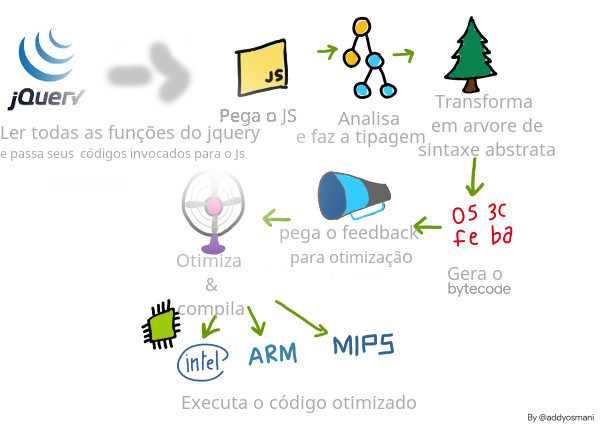
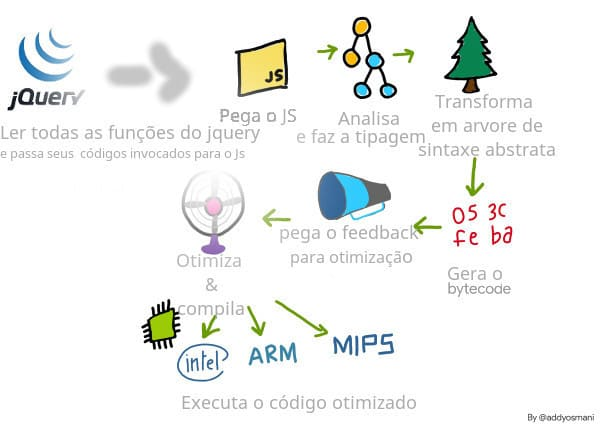
Atualização, seo e compressão de imagens (diminuir o peso pq ta foda kk)

diff --git a/index.html b/index.html
@@ -8,12 +8,12 @@
       <link rel="stylesheet" href="https://jul10l1r4.github.io/HTTP_-_Resposta/style/texto.css"/>
       <link rel="stylesheet" href="css/layout.css"/>
       <meta name="author" content="Julio Lira"/>
-			<meta name="theme-color" content="#AA9780">
+			<meta name="theme-color" content="#787A84">
       <meta name="robots" content="index, follow">
+			<meta name="description" content="Olá, meu nome é Julio Lira e sou um desenvolvedor que já a um bom tempo trabalho com produção de sites 💻 ⌨ 🖥, blogues APIs entre outras, sou um entusiasta pelo paradigma funcional amo viajar e fotografar, escrever, pensar na vida e tal, sou desenvolvedor e pensante nas horas vagas, Julio Lira"/>
+			<meta property="article:published_time" content="2018-03-16T10:00:00+00:00" />
       <meta property="og:site_name" content="https://jul10l1r4.github.io/" />
-      <meta property="og:url" content="https://jul10l1r4.github.io/" />
-      <meta name="description" content="Olá, meu nome é Julio Lira e sou um desenvolvedor que já a um bom tempo trabalho com produção de sites 💻 ⌨ 🖥, blogues APIs entre outras, sou um entusiasta pelo paradigma funcional amo viajar e fotografar, escrever, pensar na vida e tal, sou desenvolvedor e pensante nas horas vagas, Julio Lira"/>
-      <meta name="keywords" content="segurança, security,sec, osec,roadsec,hack,hacking,pentest,web, invasion,RE,Julio Lira,http, https, erro, error, mensagem, criar, 404, html, php, c, css, javascript, java, go, python, haskell, git, not a bug, jul10l1r4, Julio Lira, br, zueira, memes, meme, mene, risos, rs, huehuehue, kkk, kkkkkkj, perdi a criatividade kkdkd, http, http meme resposta, api meme, api resposta, rootthings, root things, rootings"/>
+      <meta property="og:url" content="https://jul10l1r4.github.io/" />   
       <meta property="og:title" content="Oi, meu nome Julio, sou desenvolvedor web ah 7 anos 📱💻 ⌨ 🖥">
       <meta property="og:image" content="https://avatars1.githubusercontent.com/u/32502168?s=400&u=420480b91dffa1215bddbb9bab5d99df688c3c68&v=4"/>
       <meta property="og:description" content="Conheça meus projetos e minha forma de criar sites e blogues, costumo trabalhar sem o uso de frameworks ou bibliotecas, antes eu utilizava bastante, até que dei uma boa estudada e notei que eu não estva fazendo uma prática certa"/>

diff --git a/artigo/background-em-texto/index.html b/artigo/background-em-texto/index.html
@@ -9,6 +9,7 @@
       <link rel="stylesheet" href="../../css/layout.css"/>
       <meta name="author" content="Julio Lira"/>
       <meta name="robots" content="index, follow">
+			<meta property="article:published_time" content="2018-03-16T10:00:00+00:00" />
       <meta property="og:site_name" content="https://jul10l1r4.github.io/" />
       <meta property="og:url" content="https://jul10l1r4.github.io/artigos/background-em-texto/" />
       <meta name="description" content="Olá, sou um desenvolvedor que já a um bom tempo trabalho com produção de sites 💻 ⌨ 🖥, blogues APIs entre outras, sou um entusiasta pelo paradigma funcional amo viajar e fotografar, escrever, pensar na vida e tal, sou desenvolvedor e pensante nas horas vagas meu nome nas redes sociais é jul10l1r4"/>

diff --git a/POP-image/index.html b/POP-image/index.html
@@ -11,6 +11,7 @@
       <meta name="author" content="Julio Lira"/>
 			<meta name="theme-color" content="#666">
       <meta name="robots" content="index, follow">
+			<meta property="article:published_time" content="2018-03-16T10:00:00+00:00" />
       <meta property="og:site_name" content="POP-IMAGE" />
       <meta property="og:url" content="https://jul10l1r4.github.io/POP-image" />
       <meta name="description" content="O efeito de deslizamento é algo almejado por muitos e também bastante usado, trás aquela sensação de qualidade e de minimalismo, porém, nem sempre passa de sensação, muitas vezes os códigos são eternamente monstrons, são bibliotecas de mais 3000 linhas de códigos que importam muitas coisas, leia um artigo sobre isso em"/>

diff --git a/artigo/Seja_performatico_-_efeito_scroll_com_6_linhas_sem_jquery/index.html b/artigo/Seja_performatico_-_efeito_scroll_com_6_linhas_sem_jquery/index.html
@@ -10,6 +10,7 @@
       <link rel="stylesheet" href="../../css/layout.css"/>
       <meta name="author" content="Julio Lira"/>
       <meta name="robots" content="index, follow">
+			<meta property="article:published_time" content="2018-03-16T10:00:00+00:00" />
       <meta property="og:site_name" content="https://jul10l1r4.github.io/" />
       <meta property="og:url" content="https://jul10l1r4.github.io/artigos/Seja_performatico_-_efeito_scroll_com_6_linhas_sem_jquery/" />
 <!-- Edite essas informações após o termino doo artigo -->

diff --git a/artigo/scroll-com-uma-linha-css/index.html b/artigo/scroll-com-uma-linha-css/index.html
@@ -10,6 +10,7 @@
       <link rel="stylesheet" href="../../css/layout.css"/>
       <meta name="author" content="Julio Lira"/>
       <meta name="robots" content="index, follow">
+			<meta property="article:published_time" content="2018-03-16T10:00:00+00:00" />
       <meta property="og:site_name" content="https://jul10l1r4.github.io/" />
       <meta property="og:url" content="https://jul10l1r4.github.io/artigos/scroll-com-uma-linha-css/" />
 <!-- Edite essas informações após o termino doo artigo -->

diff --git a/css/layout.css b/css/layout.css
@@ -25,14 +25,15 @@ body,html{
 	background-attachment:fixed;
 	display:table;
 	z-index:0;
-}#to{
+}#to{/* Imagem para carregar antes, e dar um efeito de carregada */
 	position:absolute;
 	height:100%;
 	width:100%;
 	left:0;
 	right:0;
 	top:0;
-	background:rgba(101,86,86,.4);
+	background:rgba(86,86,104,.4);
+	background-image:url(../assets/point.png);
 	display:table;
 	z-index:1;
 }
